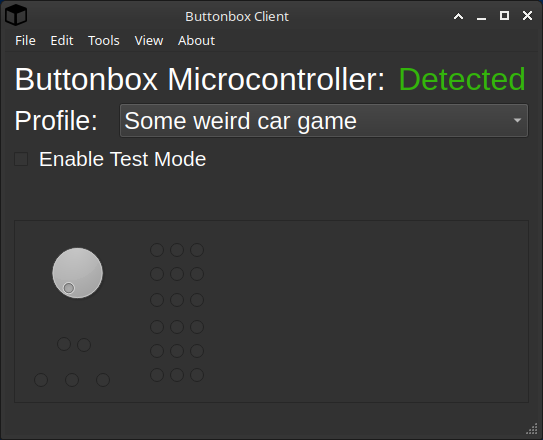
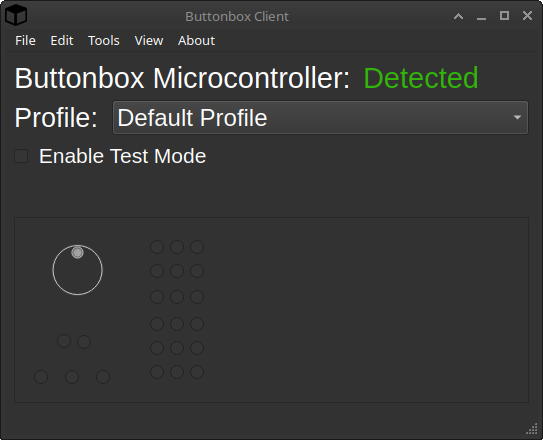
Added screenshots, wrote guide about usage and functionality

diff --git a/client/buttonbox_client/version.py b/client/buttonbox_client/version.py
@@ -1,2 +1,2 @@
-__version__ = (0, 1, 0)
+__version__ = (0, 2, 0)
 version_string = ".".join(map(str, __version__))

diff --git a/README.md b/README.md
@@ -1,16 +1,29 @@
 # Buttonbox
 
-The BOX.
-Schematics below (may be changed).
+The idea behind Buttonbox is to have a Microcontroller connected to some Buttons and other hardware that can communicate with a Computer to trigger certain actions, like hitting Keyboard Combinations, changing volume and other generic or specialized tasks.
 
-![image](https://github.com/user-attachments/assets/a2a05848-047d-4d3a-822e-e431287554a5)
+\<Insert Image of circuit here\>
+<!--![image]()-->
+
+In its current form, there are 6 different components:
+
+- An `esp32`
+- 6*3 Button Matrix (using analog Ports)
+- 1 Single Button
+- 4 Diodes
+- 1 Rotary Encoder
+- 1 OLED Display (128x64px)
 
 Wokwi project: <https://wokwi.com/projects/410915727655762945> (illustrational).
 
+## Installing
+
+_See: `INSTALL.md`_
+
 ## Microcontroller client
 
-The Microcontroller client can be found at `/buttonbox/buttonbox.ino` and uploaded to an esp32 e.g. using Arduino IDE.
-Everything that needs to be adapted is marked with an `// ADAPT` comment. It needs to run all the time, connected to the PC.
+The Microcontroller client can be found at `/buttonbox/buttonbox.ino` and must be uploaded to an esp32, e.g. using Arduino IDE.
+As used Pins and other hardware-specific values may vary, everything that might need configuration is marked in the `buttonbox.ino` file using an `// ADAPT` comment. Those are all located at the top of the file.
 
 ## PC client
 
@@ -18,23 +31,71 @@ The PC client is found at `/client` and is implemented as a PyQt6 application th
 
 ![image](/screenshots/client_main.png)
 
-### Build
+The client has 2 states:
 
-First compile UI and icons by executing the `/client/compile-ui.sh` and `/client/compile-icons.sh` (UNIX/Bash) or `/client/compile_ui.ps1` and `/client/compile_icons.ps1` (Windows/PowerShell) files. The client itself is cross-platform. Note that for the `compile-icons.sh` and `compile_icons.ps1` files, PySide6 must be installed. For everything else, PyQt6 is used.
+- Detected
+- Undetected
 
-When bundling an executable, the following files and directories must be included:
+When undetected, it is polling the selected Serial Port for a UTF-8 encoded string with the value `HANDSHAKE`. This is sent out by the Arduino Program as soon as the Client established a Serial Connection. If the Handshake is received, the state will change to `Detected` (see Image above).
 
-- `/client/buttonbox_client/icons/resource.py`
-- `/client/buttonbox_client/icons/cube-icon.png`
-- `/client/buttonbox_client/ui/*_ui.py`
-- `/client/buttonbox_client/__init__.py`
-- `/client/buttonbox_client/config.py`
-- `/client/buttonbox_client/gui.py`
-- `/client/buttonbox_client/model.py`
-- `/client/buttonbox_client/version.py`
-- `/client/buttonbox_client/empty_profile.json`
-- `PyQt6`, `pystray`, `pillow`, `pyserial` and `pynput` top level dependencies
+In this state, the `esp32` will continuously report the state of all Buttons, as well as Rotation Events of the Rotary Encoder to the Client, while the Client can send Commands to control Display and LEDs connected to the ESP.
 
-The main file is `/client/buttonbox_client/__main__.py`.
+Before running, one should check the Settings Menu under `Edit` > `Settings...`. Especially the Baudrate should be changed, if the Microcontroller is using a different one.
 
-A nuitka build script will be included in the future.
+To check the functionality of the connected hardware, the `Test Mode` can be used.
+
+### Test Mode
+
+> _Note: Test Mode can only be activated after a Connection has been established, and the Handshake has been received._
+
+After activating the Test Mode in the Client's Main Window, all other action will be suspended. All Hardware events will be redirected to the Test Mode Handler and the selected Profile will be temporarily deactivated. In Test Mode, Button presses will be shown in the visualization in the lower area of the Main Window (see also the lower half of the Screenshot at the top of this section). Similarly, Rotary Encoder Events will be illustrated by moving the Dial.
+The 4 LEDs are made up of the 3 adjacent circles, as well as the left one of the 2 adjacent circles. Those can be clicked with the Mouse so they light up in the UI, as well as on the actual circuit. Moving the Dial manually has no effect.
+
+> For an Image showcasing Test Mode, see [here](./screenshots/client_test.png).
+
+### Profiles
+
+To configure the Box' behavior, Profiles can be created. Profiles can control the following things:
+
+- Automatic Detection: A Profile can be automatically activated, for example, when a certain game is running on a system, when a command was issued, or when any other Event took place.
+- LED Management: A Profile can be assigned an LED Manager that is responsible for controlling the Diodes.
+- Button Actions: Profiles allow for configuring every single Button.
+
+Note that Automatic Detection and LED Management is currently only possible using pre-made functions.
+
+![image](./screenshots/client_profiles.png)
+_Profiles Dialog opened using `Edit` > `Profiles...`_
+
+#### Configuring Profiles
+
+![image](./screenshots/client_profile_editor.png)
+
+In the Profile Editor, the following 4 things can be customized:
+
+- Auto Activation: Select an Auto Activation Profile for your Buttonbox Profile. `Off` means there is no Auto Activation. `default` means, that the Profile will activate if there is no other Profile that wants to activate itself. It can be used to bind some generic commands to the Buttons, for example, to open certain Applications.
+- LED Profile: Select an LED Manager. `Off` means, the LEDs are turned off all the time. `default` means, they are turned on all the time.
+- Single Button: Select between 3 modes for the Button: `Off` means the Button does nothing. `Command` lets you enter a Command that will be executed like through a Shell. This can be used to launch Applications, for example, put `firefox` as Command and it will launch a Firefox Window. Third, there is `Game Action`. See the Section `Games` below for more informations.
+- Button Matrix: To configure a Button from the Button Matrix, a Button has to be selected in the Table on the lower left. That will enable the `Matrix Button:` input fields. They work the same as `Single Button`.
+
+#### Games
+
+To implement Actions, Games are used. A Game is a collection of Actions that belong together, for example, to control a Game running on the Computer. A Game can also have Auto Detection functionality, as well as an LED Manager. That's why, Game names can be found to select in those Menus.
+A Game's Action can be selected for a Button by setting the Button Type to `Game Action` and selecting the desired Action in the new Dropdown. Custom Actions can be added as well, but more on that in a later Section.
+
+### Keyboard Shortcuts
+
+Many Games and other Software are best controlled using Keyboard Shortcuts. These, however, may vary, depending on personal Preference, Version and even Platform. That's why it's possible to configure custom Shortcuts for certain actions, that make use of Keyboard Shortcuts. To do this, open the Shortcut Editor at `Edit` > `Keyboard Shortcuts...`. The Interface is very straightforward, click on the field next to the Action and enter a Key Combination.
+
+If an Action is not displayed in the Shortcuts Editor, it means that the Action does not make use of Keyboard Shortcuts.
+
+> For an Image showcasing the Shortcuts Editor, see [here](./screenshots/client_shortcuts.png).
+
+### Custom Actions
+
+Issuing plain Keyboard Shortcuts isn't exactly a big deal, which is why, in it's most basic form, they do not need to be implemented via code but can be freely added by the User.
+
+> _Note: Actions defined in Code may have more advanced Behavior, like Delays and advanced Macro functionality. This is currently not possible when defining Custom Actions._
+
+Custom Actions can be added in the Custom Actions Manager under `Edit` > `Manage Custom Actions...`. This Dialog only allows for creating new Actions, as well as deleting them. After creating an Action, go to the Shortcuts Editor at `Edit` > `Keyboard Shortcuts...` and set the Key Combination for your newly created Custom Action.
+
+> For an Image showcasing the Custom Actions Manger, see [here](./screenshots/client_custom_actions.png).

diff --git a/INSTALL.md b/INSTALL.md
@@ -1,0 +1,39 @@
+# Building Buttonbox
+
+## Windows
+
+A Windows Installer will be available for Download once the initial Release is published.
+
+A portable Executable will also be available for Download.
+
+## Linux
+
+A portable Linux Executable will be available for Download once the initial Release is published.
+
+## Running from Source
+
+The Client is cross-platform, so it should work on any system if running from source or compiled manually.
+
+For the PyQt6 Application to run, some Qt Resources must be compiled.
+
+First compile UI and icons by executing the `/client/compile-ui.sh` and `/client/compile-icons.sh` (UNIX/Bash) or `/client/compile_ui.ps1` and `/client/compile_icons.ps1` (Windows/PowerShell) files.
+Note that for the `compile-icons.sh` and `compile_icons.ps1` files, PySide6 must be installed. For everything else, PyQt6 is used.
+
+### Bundling an Executable
+
+When bundling an Executable, the following files and directories must be included:
+
+- `/client/buttonbox_client/icons/resource.py`
+- `/client/buttonbox_client/icons/cube-icon.png`
+- `/client/buttonbox_client/ui/*_ui.py`
+- `/client/buttonbox_client/__init__.py`
+- `/client/buttonbox_client/config.py`
+- `/client/buttonbox_client/gui.py`
+- `/client/buttonbox_client/model.py`
+- `/client/buttonbox_client/version.py`
+- `/client/buttonbox_client/empty_profile.json`
+- `PyQt6`, `pystray`, `pillow`, `pyserial` and `pynput` top level dependencies
+
+The main file is `/client/buttonbox_client/__main__.py`.
+
+A nuitka build script will be included in the future.
